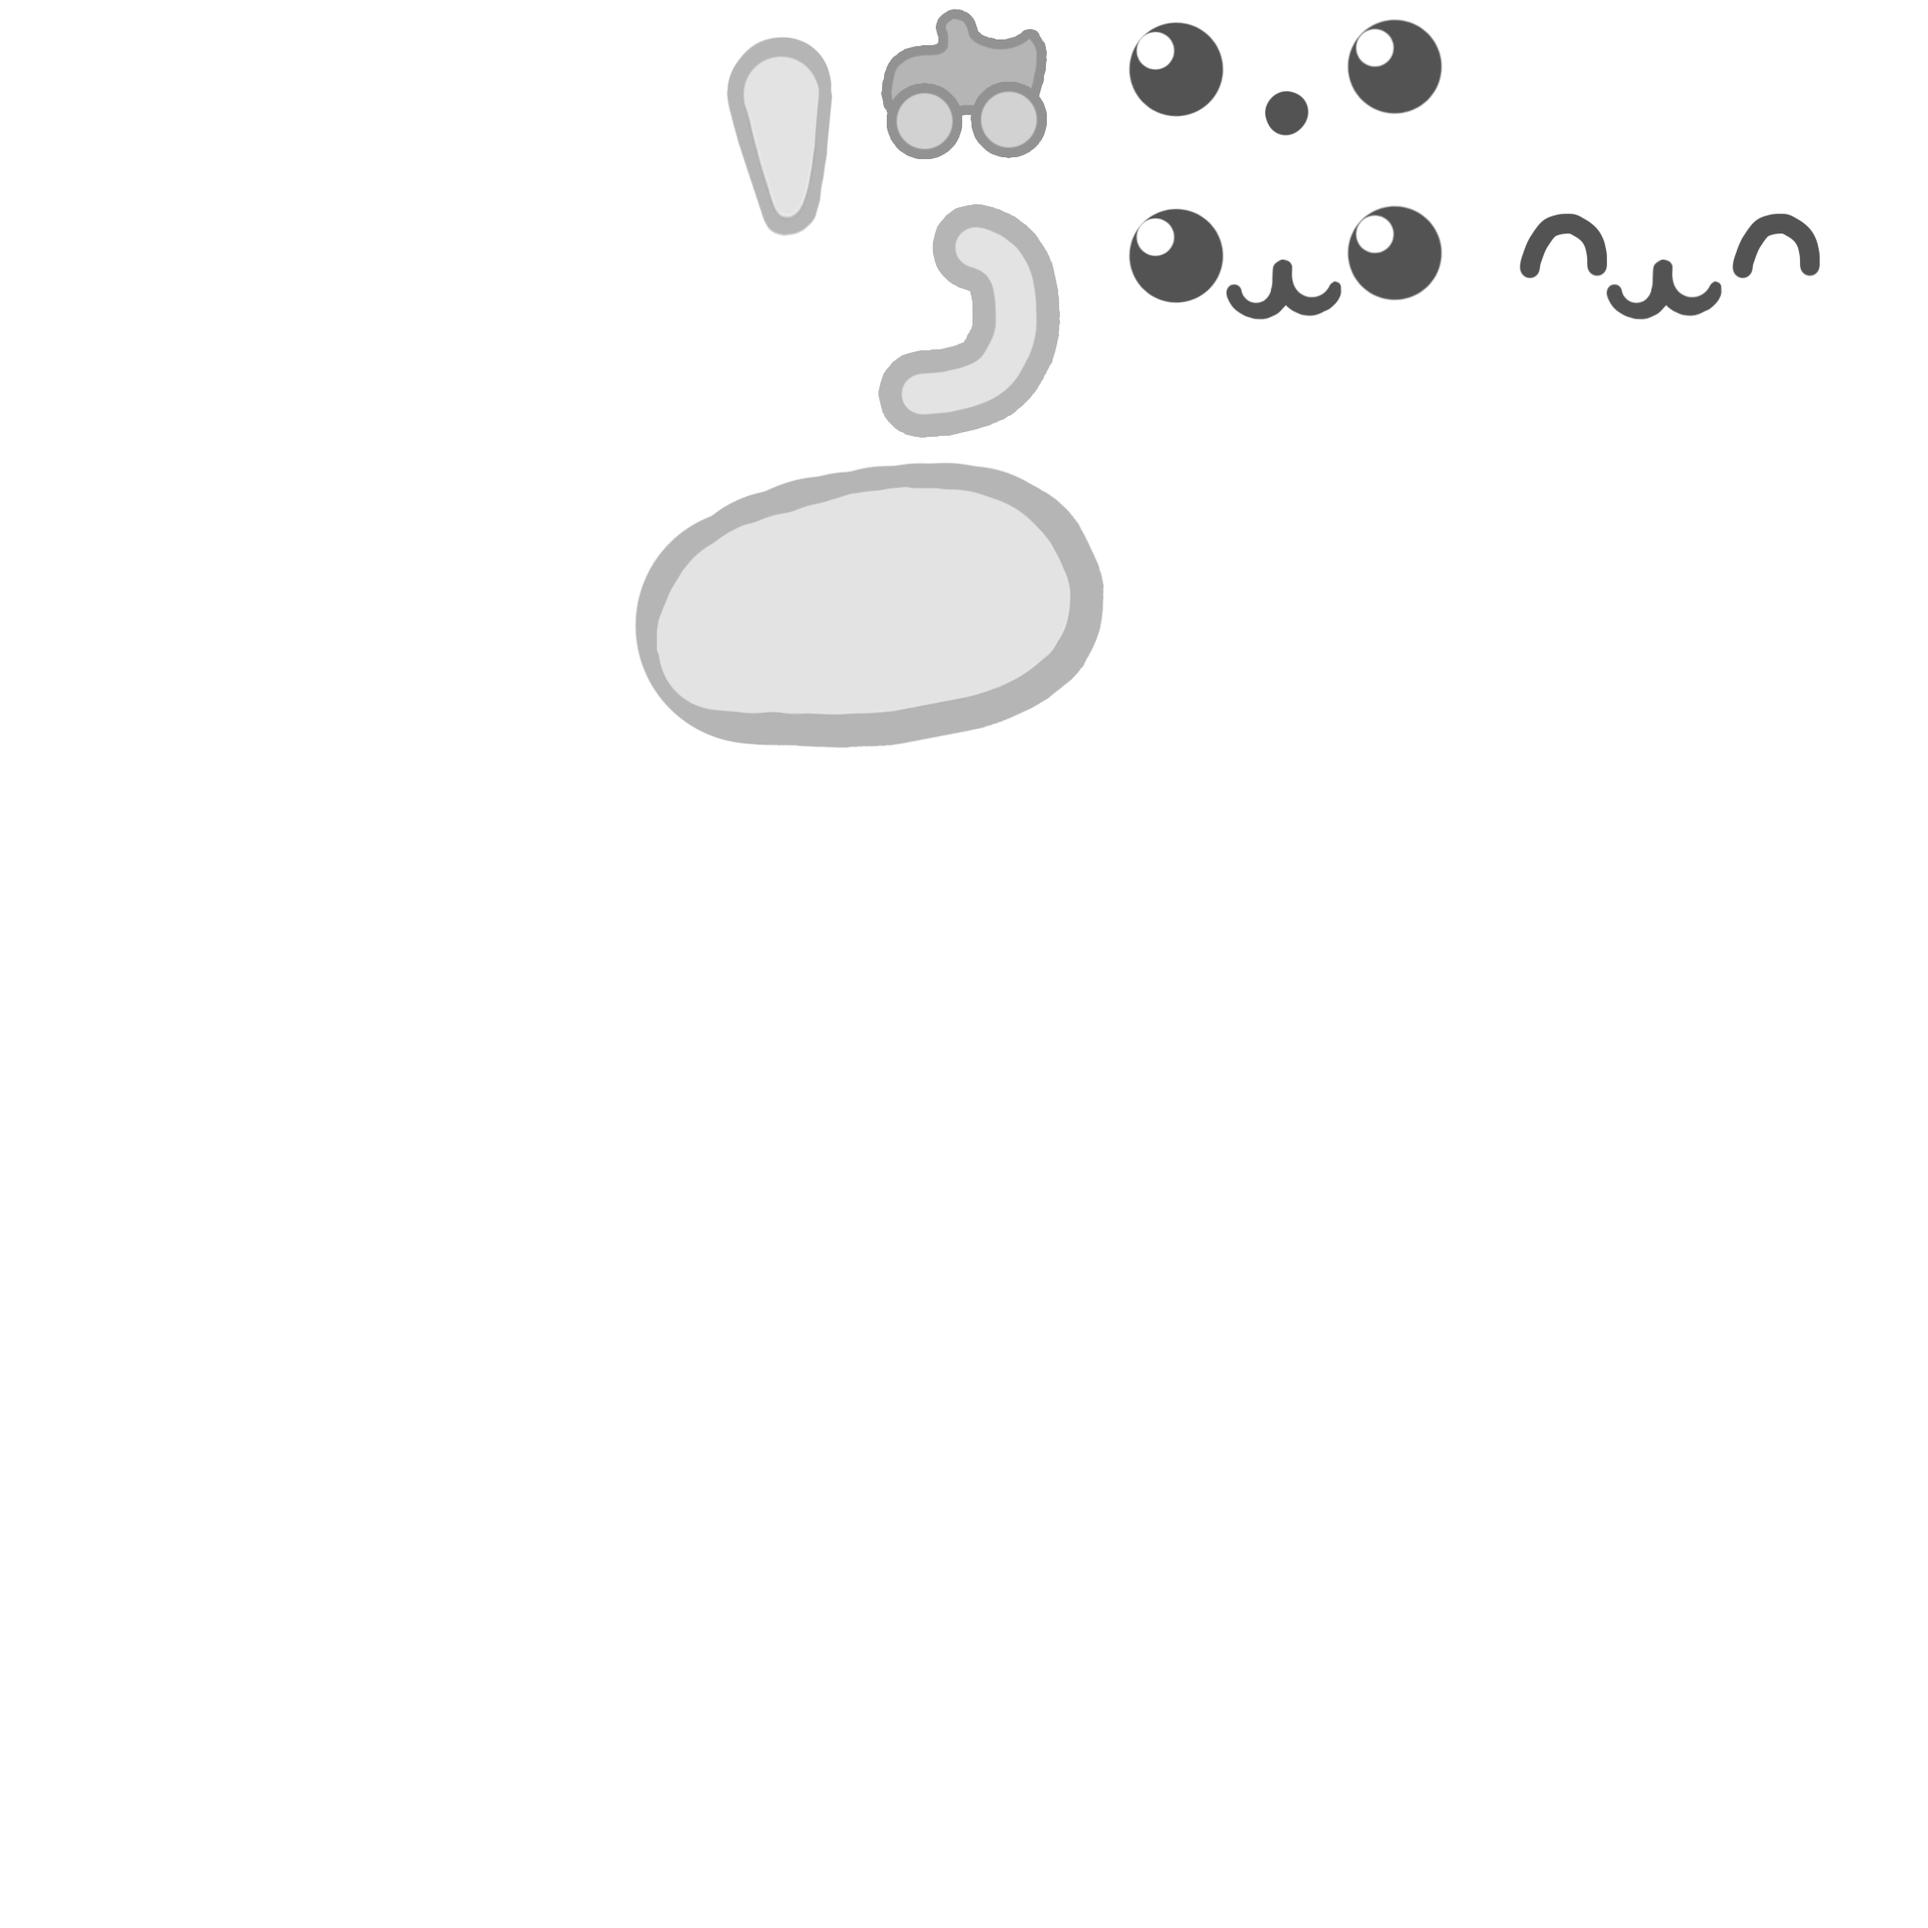
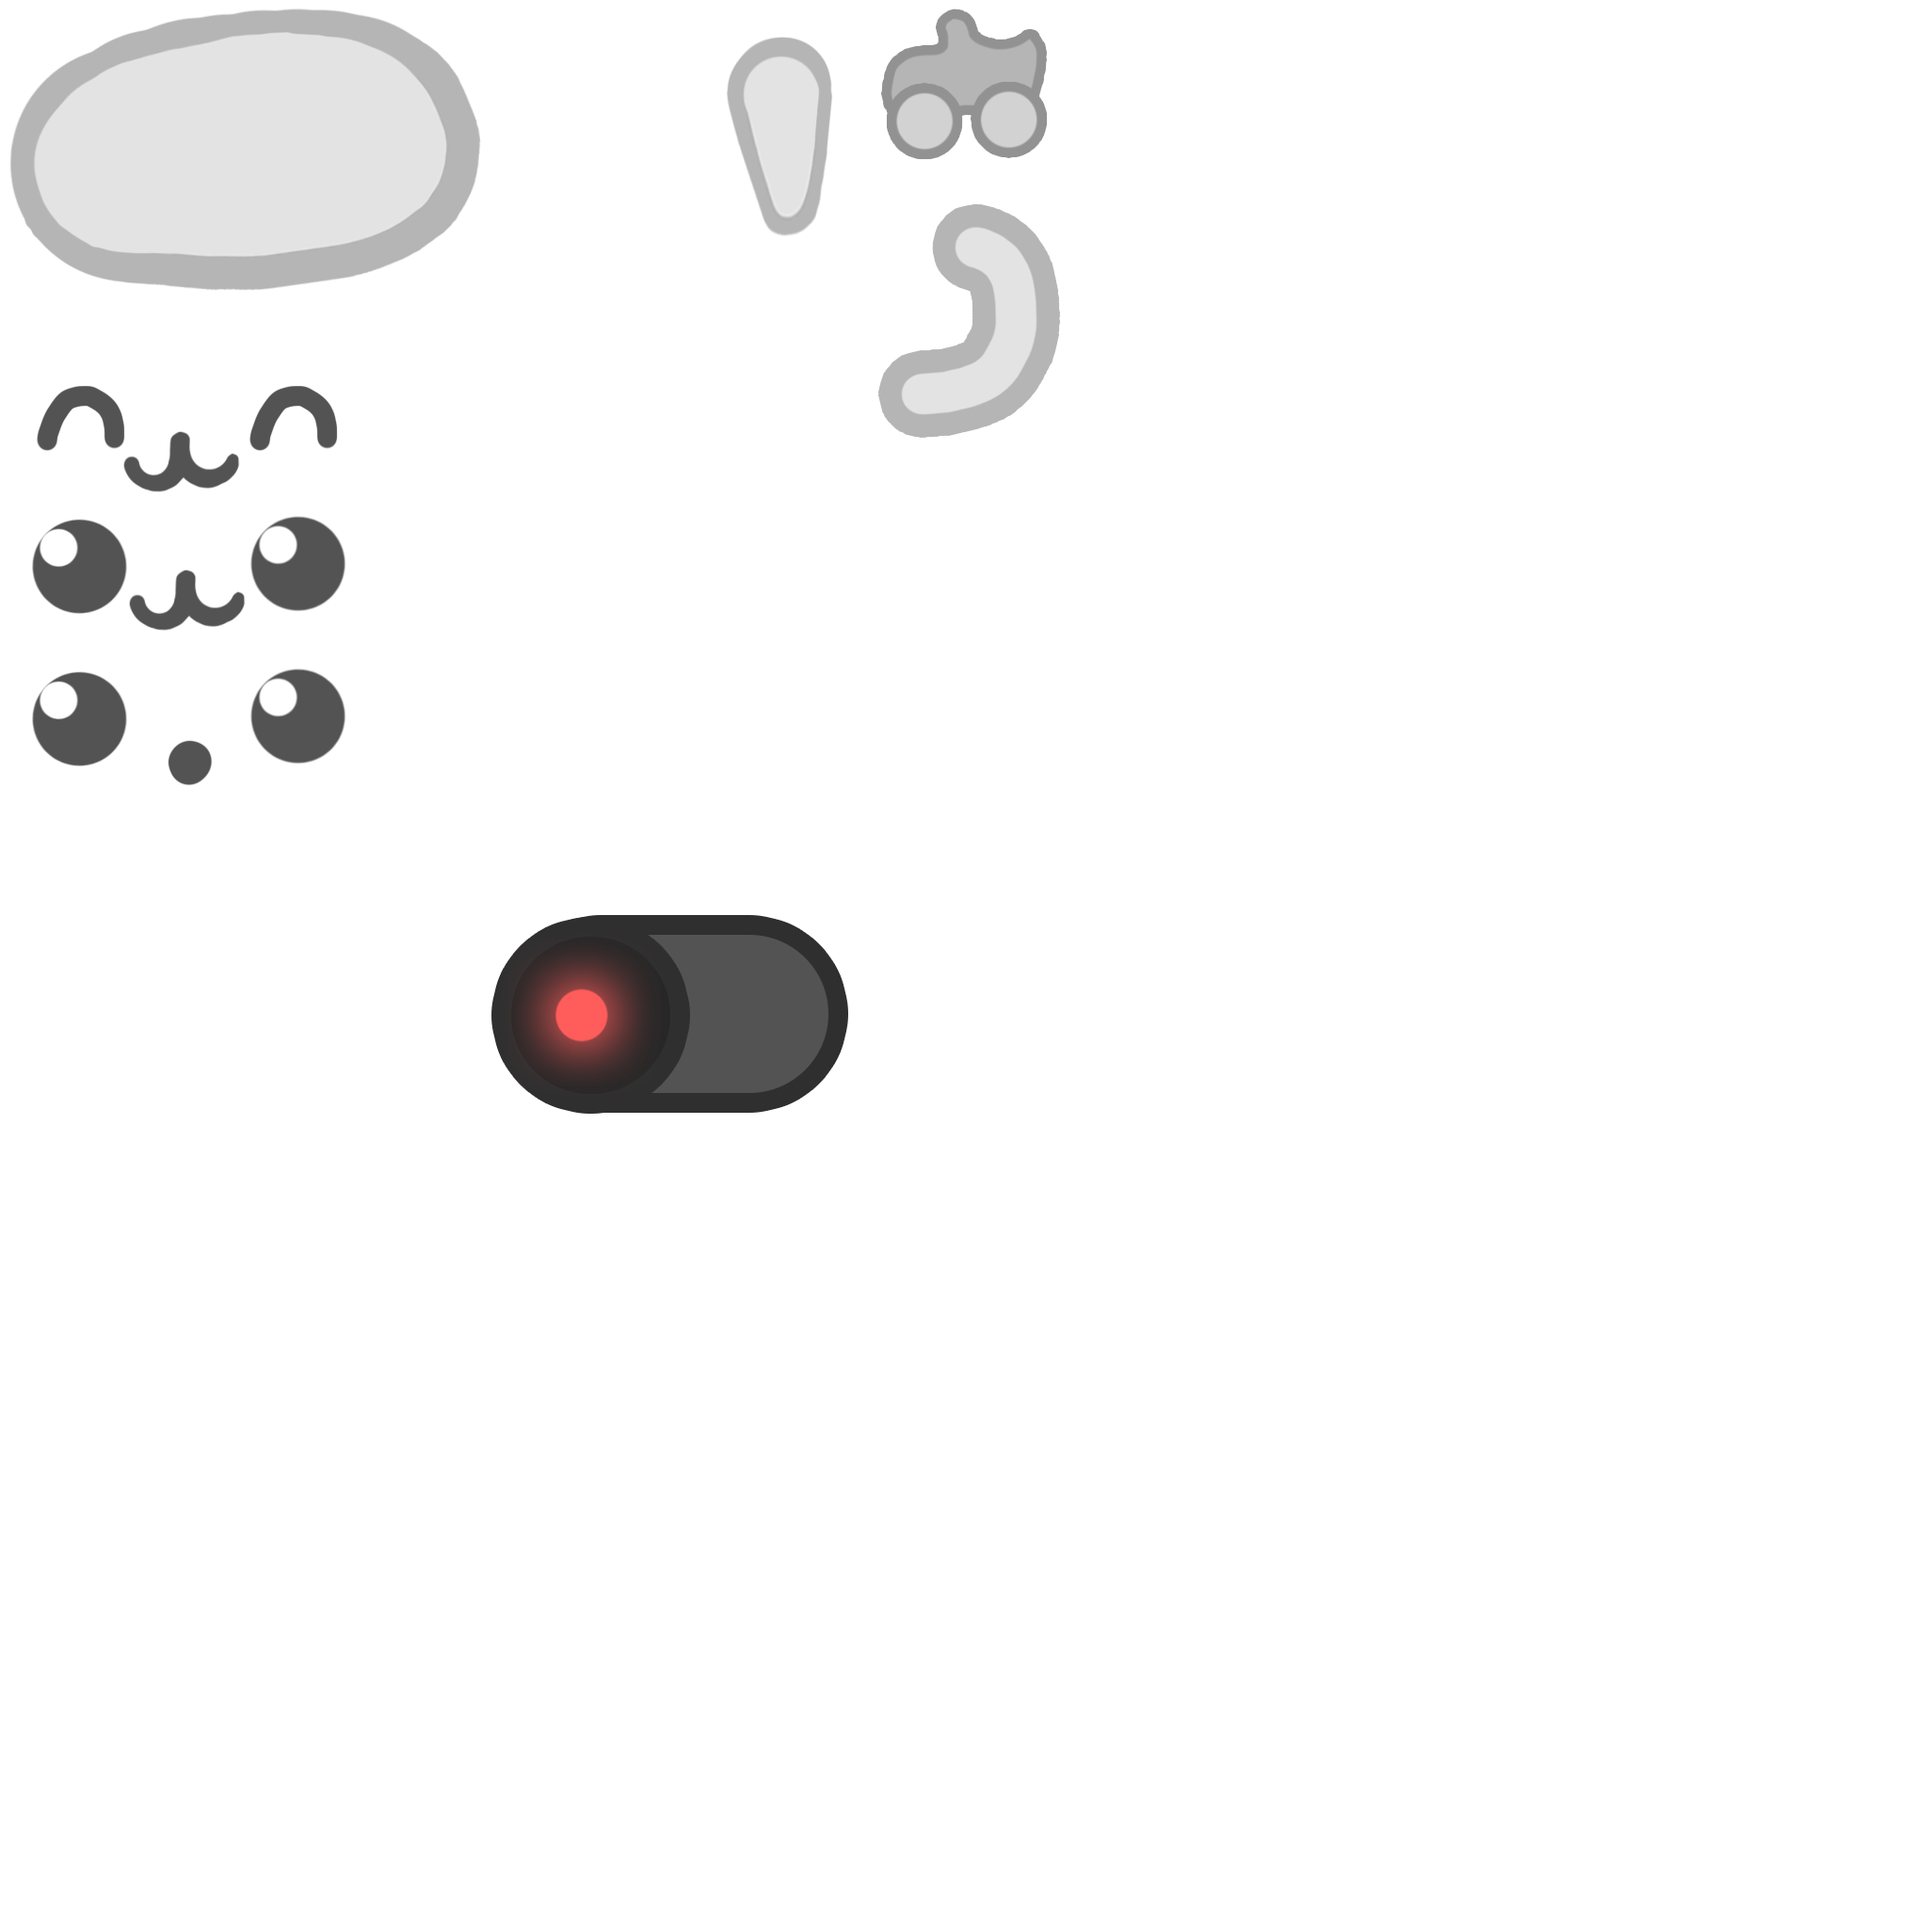
- cats now have laser pointers applied to their design as a replacement for the 'rope' line renderer.

diff --git a/Assets/Scripts/FollowMouseBehaviour.cs b/Assets/Scripts/FollowMouseBehaviour.cs
@@ -1,0 +1,16 @@
+using System.Collections;
+using System.Collections.Generic;
+using UnityEngine;
+
+public class FollowMouseBehaviour : MonoBehaviour
+{
+	public float offset = 0.0f;
+
+	void Update ()
+	{
+		Vector3 difference = Camera.main.ScreenToWorldPoint(Input.mousePosition) - transform.position;
+		difference.Normalize();
+		float rotation_z = Mathf.Atan2(difference.y, difference.x) * Mathf.Rad2Deg;
+		transform.rotation = Quaternion.Euler(0f, 0f, rotation_z + offset);
+	}
+}
